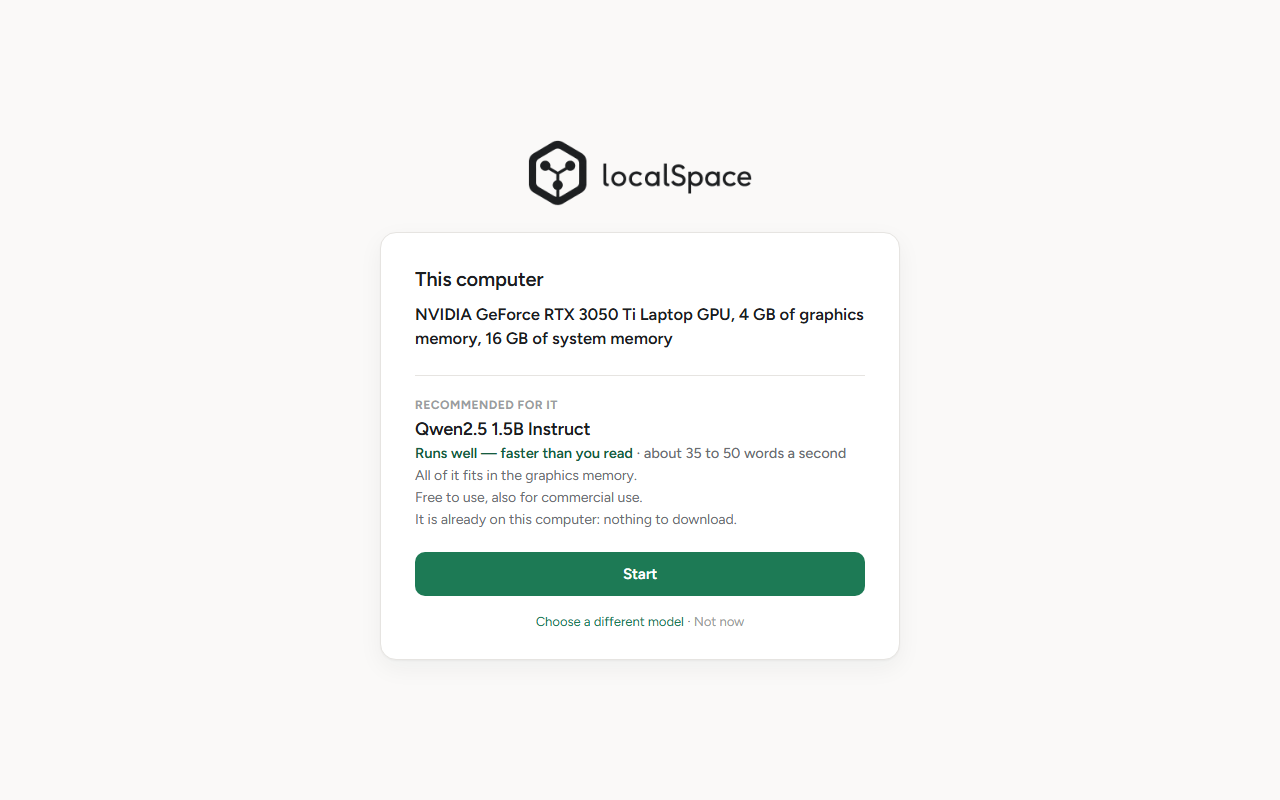
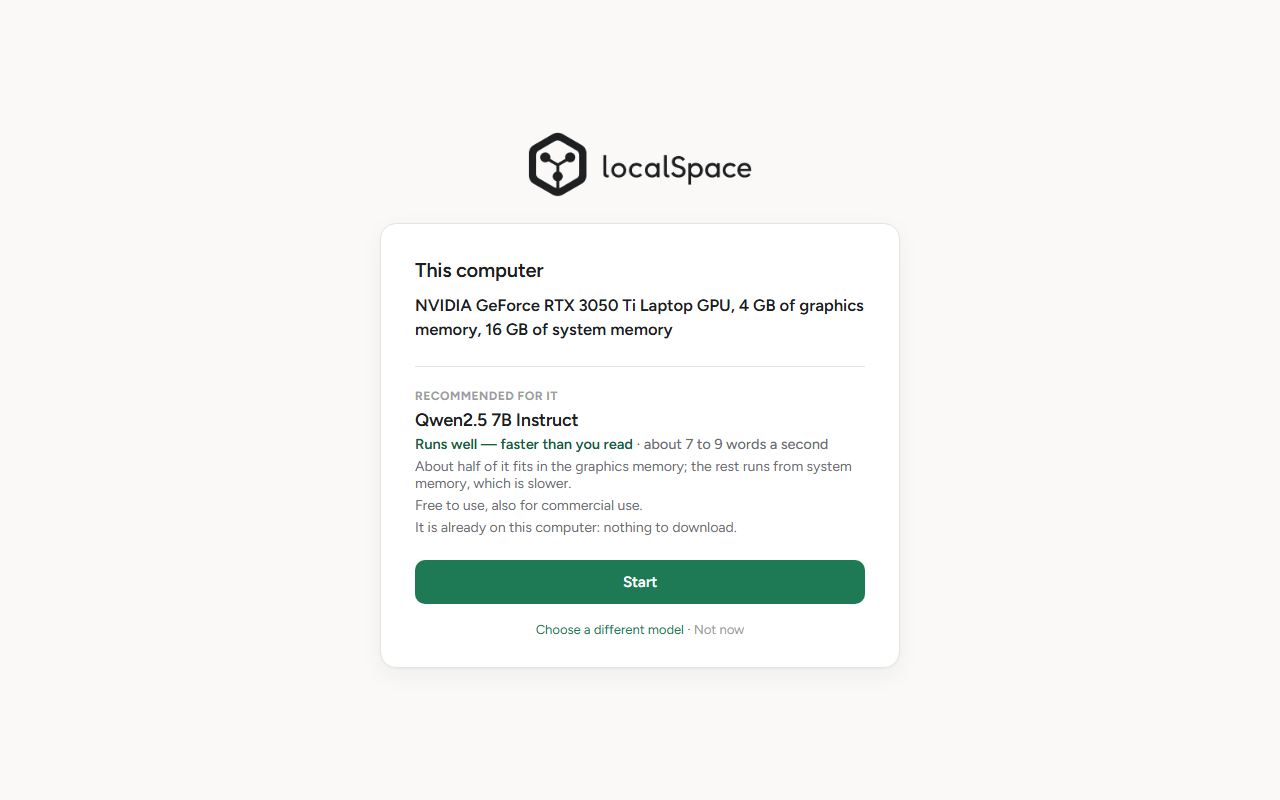
docs(test-a): the sheet after the answers of day 3, with the two pictures taken again
English only, said to the tester in one line. The pictures show what a 4 GB
laptop is offered since the line for "runs well" is at 10: the 7B. For us:
all five Qwen2.5 models go on the stick and which laptop is offered which, a
card the app does not know by name, and the two log lines that explain a
recommendation that surprises.

docs/DECISIONS.md, 2026-09-19, the answers after day 3: 6, B and C.

Changed region(s): [[0.3125, 0.4688, 0.6875, 0.8125], [0.3125, 0.3125, 0.6875, 0.4375], [0.4062, 0.1562, 0.5938, 0.25]]

diff --git a/docs/TEST-A-TESTER-SHEET.md b/docs/TEST-A-TESTER-SHEET.md
@@ -8,9 +8,9 @@ the day itself. Nothing here needs a terminal or any technical knowledge.
 > first run says what the computer is, recommends a model with how it will
 > run, and its download continues after an interruption. The two pictures of
 > the first run under step 5 are from the build of 19 September on our own
-> laptop (the page is the same everywhere but for what it says about the
-> computer and which model it names; they are taken again if the rule behind
-> the recommendation changes). Screenshots of the two Windows messages are
+> laptop, taken again after the line for "runs well" moved to 10 tokens a
+> second (the page is the same everywhere but for what it says about the
+> computer and which model it names). Screenshots of the two Windows messages are
 > added after the dry run of Thursday 24th, from the real build on a real
 > machine that is not ours. The
 > models a laptop is offered today are 0.5 GB, 1.0 GB, 2.0 GB, 4.4 GB and
@@ -28,16 +28,32 @@ the day itself. Nothing here needs a terminal or any technical knowledge.
 > <folder>` checks a stick against them before the day (the five Qwen2.5
 > models, 16 GiB together, take half a minute from a fast disk);
 > `node scripts/check-catalog.mjs` checks the list itself against Hugging
-> Face. The five Qwen2.5 models cover every laptop with 16 GB of memory; a
-> laptop with 32 GB may be recommended Qwen3 30B-A3B (17.3 GiB), which has
-> not run through localSpace on any machine yet: put to the user on
-> 19 September.
+> Face. **Put all five Qwen2.5 models on the stick** (16 GiB together): a
+> laptop is offered the 7B from a 4 GB card of the RTX 3050 Ti's class
+> upward, the 14B from a 12 GB card, the 1.5B without a card or with an
+> older 4 GB card, and the 0.5B and the 3B can be chosen by hand. Qwen3
+> 30B-A3B and gpt-oss 120B are listed and are never offered first: nobody
+> has run them through localSpace yet (docs/DECISIONS.md, 2026-09-19).
+>
+> **A card the app does not know by name** (AMD's laptop cards and the RTX 50
+> laptop cards today) is used, and promised only what the processor would
+> do, so its laptop is offered the 1.5B. Send the builder the graphics cards
+> from part 1's answers before the day, and each is added with its published
+> figure.
+>
+> **If a recommendation surprises you on the day**, the file `app.log` (see
+> the end of part 2) has two lines that explain it: "the computer as found"
+> and "first run: … is recommended".
 >
 > **What the models answer** to nineteen ordinary messages, model by model,
 > is in `docs/test-a/MESSAGE-SCRIPT.md`. In short: the 7B and the 14B are
 > reliably good; the 1.5B is fast and gets a sum, a date or a capital wrong
-> often enough that a tester will meet it; asked for the weather, the larger
-> ones try a web search that is not set up and say they found nothing.
+> often enough that a tester will meet it, which the app now says of the
+> smallest models itself. Asked for the weather, the 7B looks for a tool that
+> could tell it, finds none and says so after about nine seconds; the 14B
+> asks to fetch a web page, on the weather and on plain questions too, and
+> what a fetched page says does not reach the model yet: an open question
+> in the report of 19 September.
 
 ## Part 1 — before the day: five things to send us
 
@@ -87,8 +103,9 @@ Open **Task Manager** (press Ctrl+Shift+Esc) and choose **Performance**.
 
    ![The first run when the model is not there yet: a green Download and start button](test-a/first-run-download.png)
 
-6. **Chat.** Ask it anything. Then try something long, such as "explain how
-   a heat pump works, in detail". It answers from what it has learned: it
+6. **Chat, in English.** Ask it anything. Then try something long, such as
+   "explain how a heat pump works, in detail". Other languages are not part
+   of this test; if you try one anyway, write down what happened. It answers from what it has learned: it
    cannot look up today's weather or the news, and it can be wrong, the
    smaller models more often. Nothing you type leaves your computer unless
    it asks to fetch a web page and you allow it.
